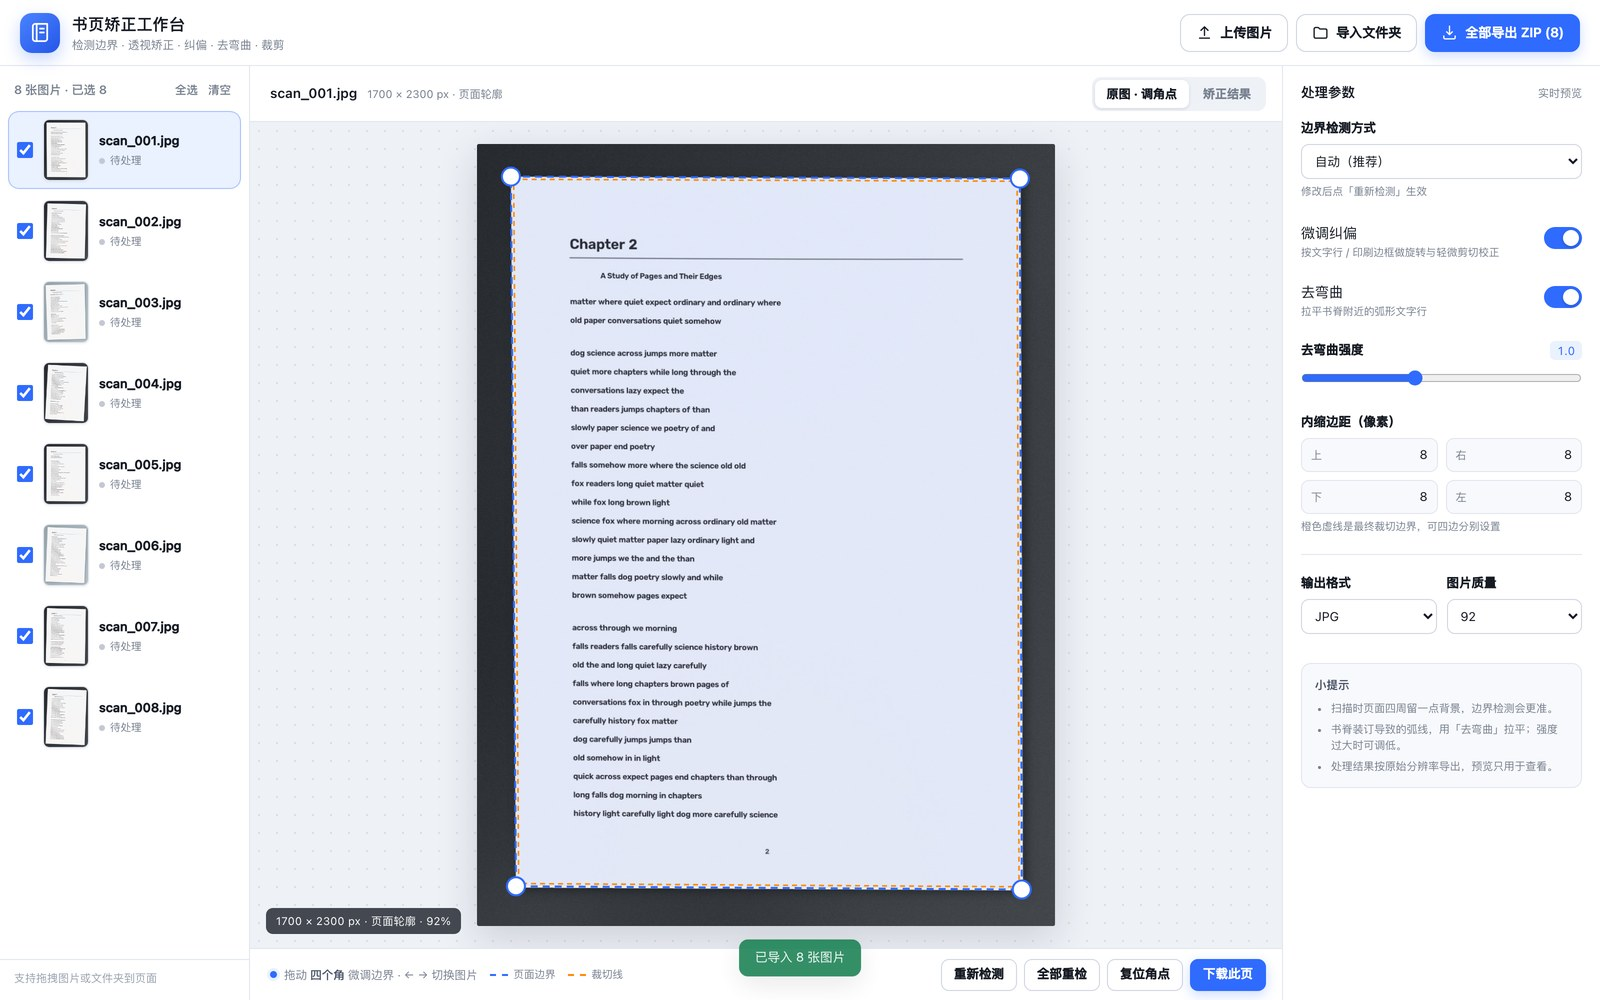
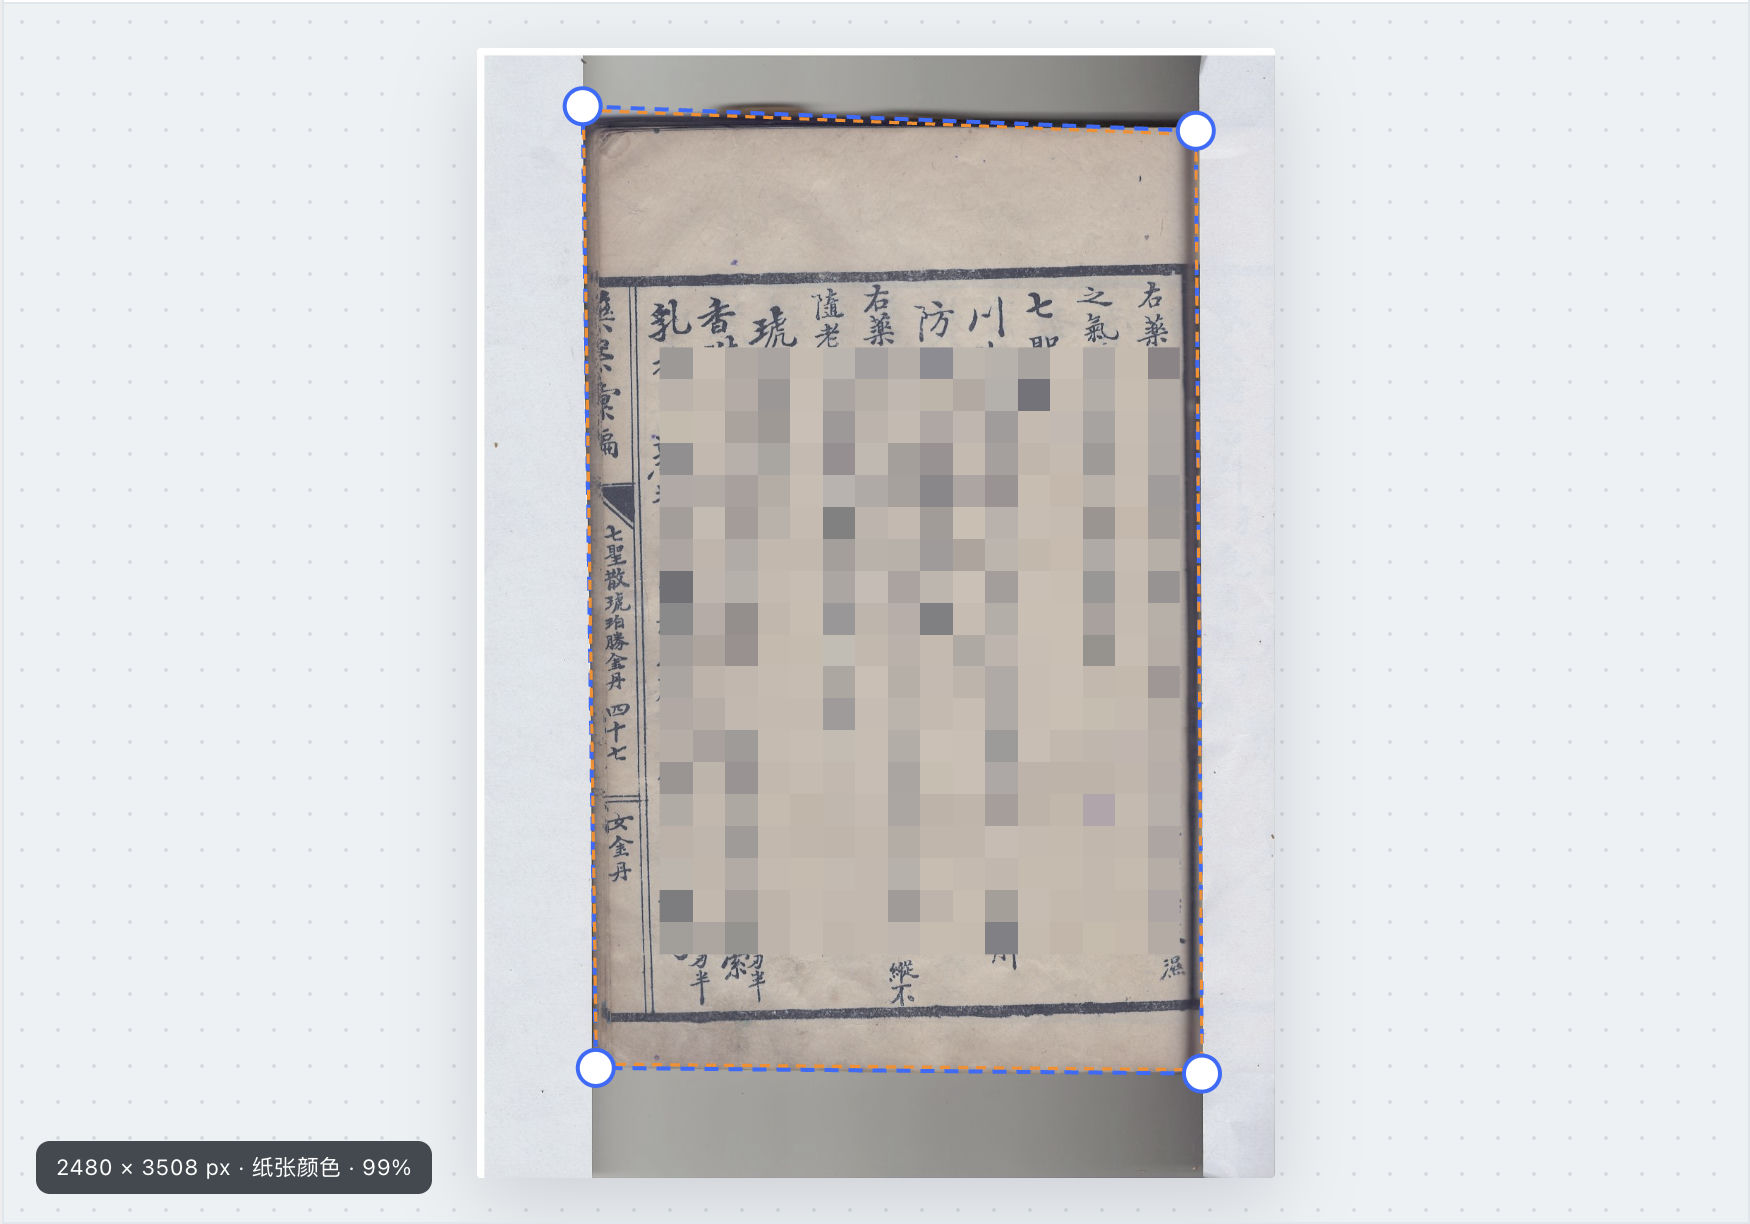
docs(content): 更换 cut-fit-page 示例图为真实扫描
- 检测/调角点与矫正结果两张截图换成真实古籍扫描
- 删除两张合成示例图（开头对比图、内缩边距图）
- 同步图注，使其与裁剪后的截图内容一致

diff --git a/content/posts/solutions/cut-fit-page/index.md b/content/posts/solutions/cut-fit-page/index.md
@@ -14,10 +14,6 @@ draft: false
 
 这篇文章只讲一件事：一页扫描图要变成可读页面，中间得依次解决哪些几何问题。读完你会知道每一步在做什么、参数该在哪一步调，也能判断手里的扫描件会不会让它失效。
 
-![原始扫描与矫正输出对比](pics/compare.jpg)
-
-*左侧是带桌面背景、倾斜和透视变形的合成扫描图；右侧是同一页经过边界检测、透视矫正、纠偏和裁切后的输出。*
-
 ## 一页纸要经过的六步
 
 整条链路是顺序的，每一步都为下一步准备更“正”的输入：
@@ -109,7 +105,7 @@ uv run python scripts/make_samples.py -o samples -n 8
 
 [![自动检测与角点微调界面](pics/editor-source.jpg)](pics/editor-source.jpg)
 
-*上传后自动检测四角，左侧是页面列表，右侧是检测方式、纠偏、去弯曲与输出参数。*
+*上传后自动检测出纸张边界，四个白色角点可以拖动；蓝色虚线是检测到的页面边缘，橙色虚线是最终裁切位置。*
 
 几个交互细节是围绕“看得见”来做的：
 
@@ -119,13 +115,9 @@ uv run python scripts/make_samples.py -o samples -n 8
 - 内缩边距按上、右、下、左分别设置，原图上用橙色虚线实时标出最终裁切位置；
 - 预览图有尺寸上限，导出始终按原图分辨率处理。
 
-[![按边设置内缩边距](pics/editor-margins.jpg)](pics/editor-margins.jpg)
-
-*把四边内缩调到 46 px 后，橙色裁切线会和蓝色页面边界分开显示，便于确认是否会切到页边内容。*
-
 [![矫正结果预览](pics/editor-result.jpg)](pics/editor-result.jpg)
 
-*切到「矫正结果」后，页面被拉成矩形，背景和桌面被裁掉；底部显示输出尺寸与纠偏角度。*
+*切到「矫正结果」后，页面被拉成矩形，四周背景被裁掉；底部显示预览尺寸与纠偏角度。*
 
 服务端把上传原图、预览图和元数据写入 `data/`，页面角点也保存在 JSON 元数据里。默认只监听本机，也可以设置 `CUTFIT_DATA` 换存储位置。对一批书页来说，这个“上传—检查—微调—导出”的循环比反复运行脚本更直接。
 
